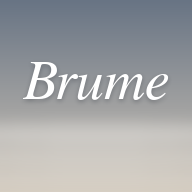
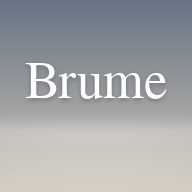
桌面圖示 Brume 改成正體（不要斜體）
Claude-Session: https://claude.ai/code/session_01XUzbE2DhWgLMwCmbTGK568

Changed region(s): [[0.125, 0.3125, 0.875, 0.5312]]

diff --git a/index.js b/index.js
@@ -18,7 +18,7 @@ import * as data from './data.js';
 import { createMusic, nowPlaying } from './music.js';
 
 const KEY = 'brume-phone:v1';
-const VERSION = '0.19.8';
+const VERSION = '0.19.9';
 
 // ---------- 除錯紀錄：手機在某些裝置上會不見，記下當時的畫面數字，設定裡可以複製給格看 ----------
 const DBG_KEY = 'brume-phone:dbg';
